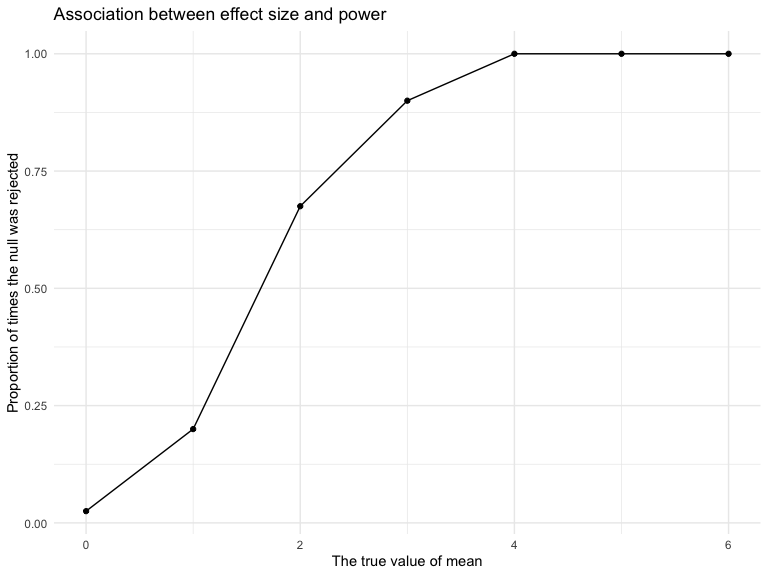
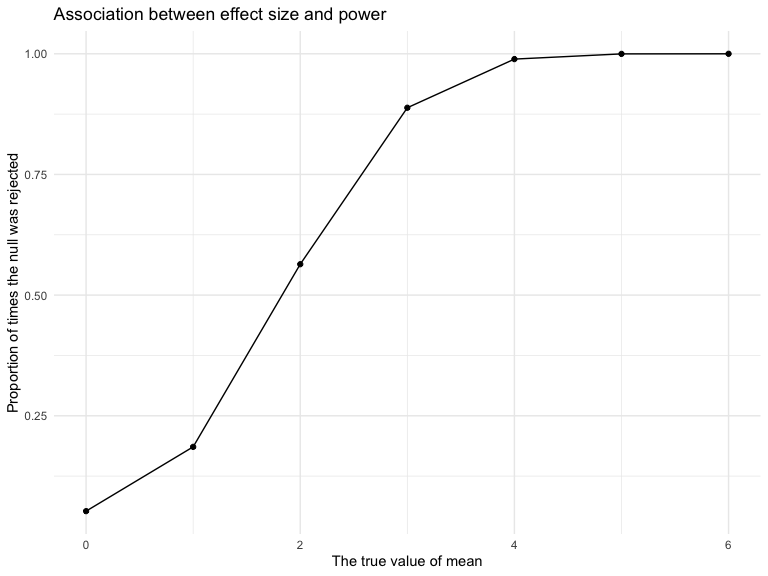
p3: make comments about plot

diff --git a/p8105_hw5_wy2369.md b/p8105_hw5_wy2369.md
@@ -513,7 +513,7 @@ reject_null (1 for reject Ho; 0 for fail to reject Ho).
 test_results_df = 
   expand_grid(
     mu = c(0:6),
-    iteration = 1:40) %>%
+    iteration = 1:5000) %>%
   mutate(
     estimate_df =
       map(.x = mu, ~fn_t_test(mu = .x))
@@ -523,7 +523,7 @@ test_results_df =
     reject_null = ifelse(p.value < 0.05, 1, 0))
 ```
 
-### Make a plot showing the association between effect size and power.
+### Make a plot showing the association between effect size and power
 
 This plot shows the proportion of times the null was rejected (the power
 of the test) on the y axis and the true value of mean on the x axis.
@@ -544,9 +544,13 @@ test_results_df %>%
 
 <img src="p8105_hw5_wy2369_files/figure-gfm/unnamed-chunk-14-1.png" width="90%" />
 
-Describe the association between effect size and power.
+Based on the plot, proportion of times the null was rejected increases
+as the true value of mean increases, which means the power of the test
+increases as true mean increases. Thus I think the association between
+effect size and power is that power of the test will increases as effect
+size increases.
 
-### Make two plots
+### Make two plots showing average estimate of mean vs true mean
 
 Make a plot `plot_all` showing the average estimate of mu_hat on the y
 axis and the true value of mu on the x axis.
@@ -564,11 +568,11 @@ test_results_df %>%
   geom_point()+
   geom_line()+
   labs(
-    title = "Association between the true value of mean and estimate of mean",
+    title = "Average estimate of mean vs true mean",
     x = "The true value of mean",
     y = "The average estimate of mean"
   ) +
-  theme(plot.title = element_text(size = 10),text = element_text(size = 6))
+  theme(plot.title = element_text(size = 8),text = element_text(size = 8))
 
 
 plot_reject =
@@ -580,16 +584,13 @@ test_results_df %>%
   geom_point()+
   geom_line()+
   labs(
-    title = "Association between the true value of mean and estimate of mean when null was rejected",
+    title = "Average estimate of mean vs true mean when null was rejected",
     x = "The true value of mean",
     y = "The average estimate of mean"
   ) +
-  theme(plot.title = element_text(size = 10),text = element_text(size = 6))
+  theme(plot.title = element_text(size = 8),text = element_text(size = 8))
 
 plot_all + plot_reject
 ```
 
 <img src="p8105_hw5_wy2369_files/figure-gfm/unnamed-chunk-15-1.png" width="90%" />
-
-Is the sample average of μ̂ across tests for which the null is rejected
-approximately equal to the true value of μ ? Why or why not?
